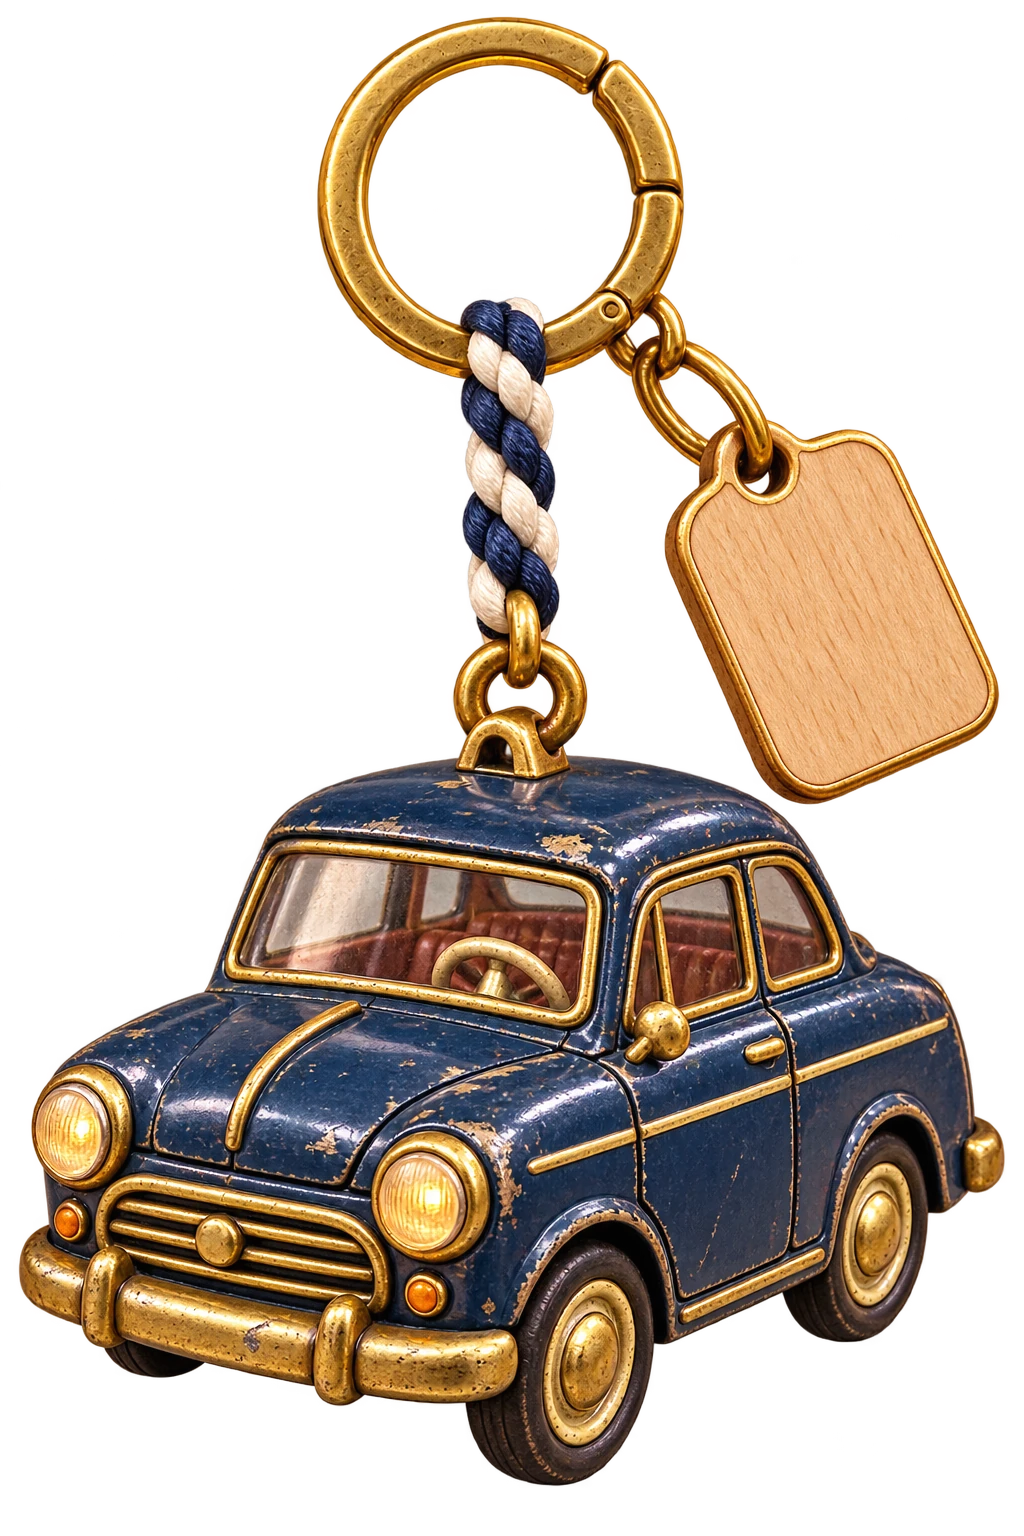
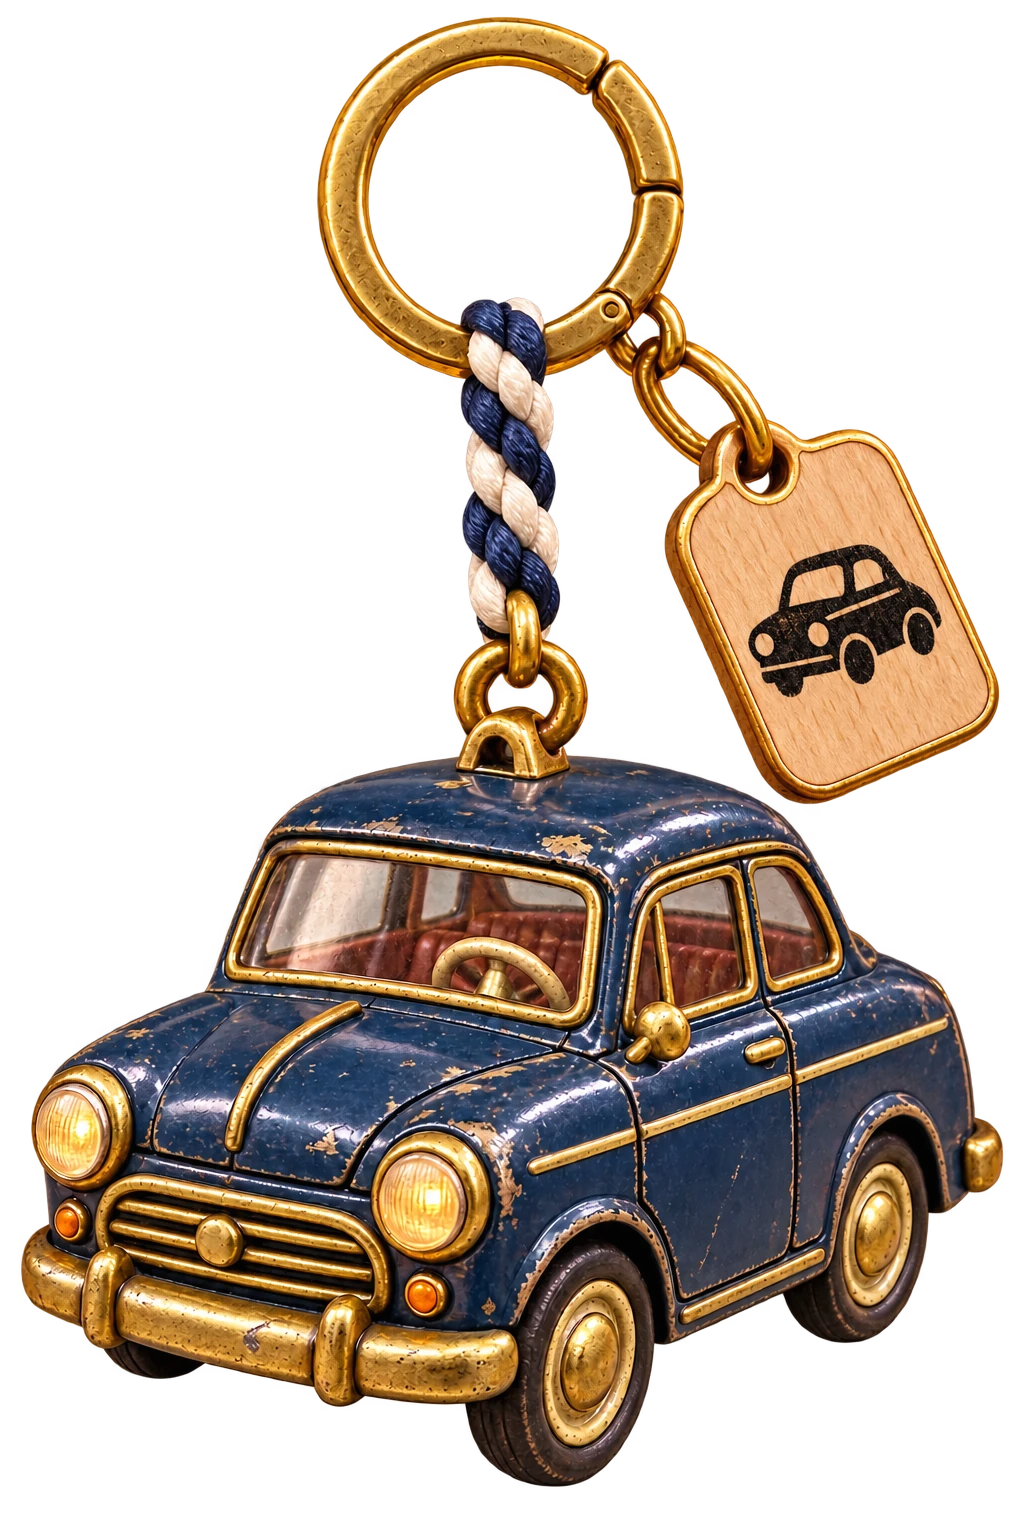
Update Toki showa-shoutengai miniature keychain

diff --git a/assets/event-toki/MANIFEST.md b/assets/event-toki/MANIFEST.md
@@ -2,7 +2,7 @@
 
 Branch: `codex/event-assets`; base: `639cf695f4b05e97006e27c850ad4d893eb70d57` (`claude/events`).
 
-Generated with the built-in image_gen tool. WebP quality 90; alpha retained. No nine-slice. Buttons: generated alpha bounds normalized to reference bounds (14,21)-(500,497) on 512x512 canvas; no artwork clipping. Previews are review-only. A/B approved. C/D and first E/F samples await user approval; the remaining seven keychains and seven goshuin are not generated.
+Generated with the built-in image_gen tool. WebP quality 90; alpha retained. No nine-slice. Buttons: generated alpha bounds normalized to reference bounds (14,21)-(500,497) on 512x512 canvas; no artwork clipping. Previews are review-only. A–D approved. E all eight complete. F all eight generated; exact reference-stamp compositing awaits user choice.
 
 ## Assets
 
@@ -103,9 +103,9 @@ Use case: precise-object-edit. Edit reference reward wooden tag. Keep EXACT refe
 
 | File | Dimensions | Bytes | Alpha |
 |---|---|---:|---|
-| keychains/keychain-showa-shoutengai-v1-transparent.webp | 1024×1536 | 363372 | yes |
-| previews/keychain-showa-shoutengai.webp | 512×768 | 119228 | yes |
-| previews/compare-keychain-showa-shoutengai.webp | 800×640 | 93844 | no |
+| keychains/keychain-showa-shoutengai-v1-transparent.webp | 1024×1536 | 317536 | yes |
+| previews/keychain-showa-shoutengai.webp | 512×768 | 114834 | yes |
+| previews/compare-keychain-showa-shoutengai.webp | 800×640 | 94370 | no |
 
 Reference: `assets/collection/keychains/keychain-akane-v1-transparent.webp`.
 
@@ -117,12 +117,20 @@ Use case: product-mockup. Edit reference into one original nostalgic tin toy sed
 
 | File | Dimensions | Bytes | Alpha |
 |---|---|---:|---|
-| goshuin/showa-shoutengai.webp | 1024×1536 | 641418 | no |
-| previews/goshuin-showa-shoutengai.webp | 512×768 | 186216 | no |
-| previews/compare-goshuin-showa-shoutengai.webp | 800×640 | 185740 | no |
+| goshuin/showa-shoutengai.webp | 1024×1536 | 523298 | no |
+| previews/goshuin-showa-shoutengai.webp | 512×768 | 177308 | no |
+| previews/compare-goshuin-showa-shoutengai.webp | 800×640 | 183820 | no |
 
 Reference: `assets/goshuin/akane.webp`.
 
 Final prompt:
 
 Use case: illustration-story. Edit reference into an original fictional goshuin for ひだまり商店街の小社. Portrait 1024x1536 opaque. Match reference warm yellowed fibrous washi paper, bold dry-brush black calligraphy down left side, large distressed vermilion circular seal behind writing, layered woodblock watercolor scenery on right and lower region. Remove existing character and existing text completely. EXACT only permitted black ink text, written vertically in two parallel readable columns (right column first): right column 『ひだまり商店街』, left column 『の小社』. Together reads exactly ひだまり商店街の小社. No other writing, no date, no imitation seal text. Red circular seal contains a SMALL simplified generic round-headlight tin sedan motif instead of letters. Right-side scenery a peaceful fictional Showa shopping street with blank cloth awnings and warm sunlight, a tiny original shrine roof shadow, charming unbranded tin toy sedan vignette at lower right with indigo body and gold trim. No fuzzy mascot; thematic collectible is sedan. Add subtle fine indigo #2F4A6B edge and muted gold #C9A24B accent, keep sacred ink/seal and reference paper/art composition dominant. Fictional original sedan, no real car model, logo, manufacturer, carrier, recognizable real shrine, delinquent or biker depictions. Only the prescribed goshuin black ink name may be text.
+
+## E final keychain inventory
+
+Each side tag carries one black subject pictogram, no text. All eight are 1024×1536 transparent WebP quality 90. No cropping/nine-slice. Built-in image_gen; approved miniature construction and finish used as reference.
+
+| File | Dimensions | Bytes | Alpha | Preview |
+|---|---|---:|---|---|
+| keychains/keychain-showa-shoutengai-v1-transparent.webp | 1024×1536 | 317536 | yes | previews/keychain-showa-shoutengai.webp |
